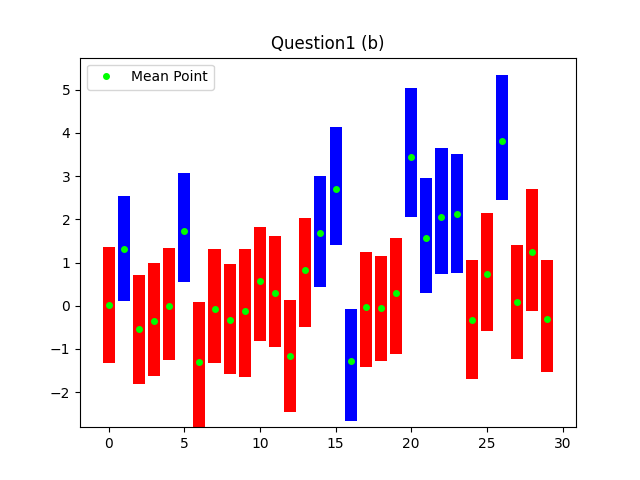
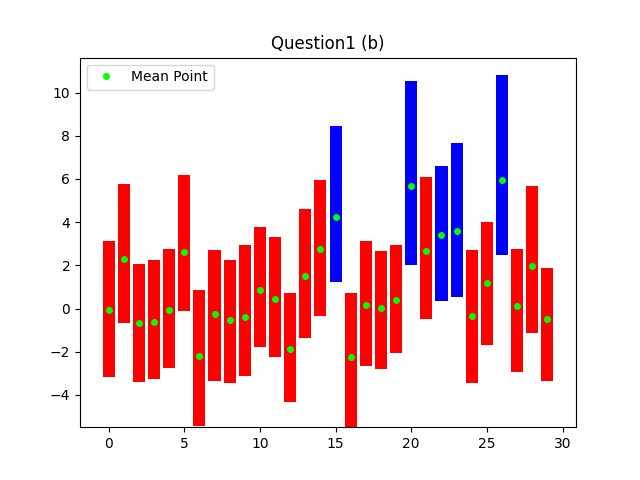
Question 1 finished

diff --git a/Final_Exam/Q1.py b/Final_Exam/Q1.py
@@ -114,7 +114,6 @@ print(
 np.random.seed(20)
 Bootstrap_size = 500
 
-
 logisticRegression_1b_full_model = LogisticRegression(
     C=1000, solver='liblinear', penalty='l1')
 logisticRegression_1b_full_model.fit(X, y.ravel())
@@ -130,21 +129,17 @@ equation_p_i = Numerator_part_p_i / denominator_part_p_i
 
 # This list is to store the coef data
 coefficient_list_1b = list()
-# This list is to store the data y
-new_y_data = list()
 
-for index in range(Bootstrap_size):
-    Bernoulli_result = np.random.binomial(n=1, p=equation_p_i).squeeze(1)
-    new_y_data.append(np.array([Bernoulli_result]))
-
-for index in range(Bootstrap_size):
+# Here is the result of bootstraping
+for index1 in range(Bootstrap_size):
     # The training data X didn't change
     random_list = np.random.randint(0, 250, 250)
+    Bernoulli_result = np.random.binomial(n=1, p=equation_p_i)
     X_4_1b = np.zeros_like(X)
-    y_4_1b = np.zeros_like(np.array(new_y_data))
+    y_4_1b = np.zeros_like(Bernoulli_result)
     for index in range(250):
         boostrap_temp_X = X[random_list[index]]
-        boostrap_temp_Y = new_y_data[random_list[index]]
+        boostrap_temp_Y = Bernoulli_result[random_list[index]]
         X_4_1b[index] = boostrap_temp_X
         y_4_1b[index] = boostrap_temp_Y
 
@@ -326,7 +321,7 @@ plt.show()
 
 
 def calculator_1d(lower_boundry, upper_boundry):
-    # These are the parameter provided by the instruction
+    # These are the parameter and code provided by the instruction
     np.random.seed(125)
     p = 30
     k = 8
@@ -349,11 +344,15 @@ def calculator_1d(lower_boundry, upper_boundry):
     # print(betas[index_eqls_1] == 0)
     # print(np.where(betas[index_eqls_1] == 0)[0])
     # Finding the positive location
-    False_Positive = np.where(betas[index_eqls_1] == 0)[0].shape
+    False_Positive_index = np.where(betas[index_eqls_1] == 0)
+    False_Positive_value = False_Positive_index[0]
+    False_Positive = False_Positive_value.shape
     # Finding the location which CI_array value is 0 ----> out of CI range
     index_eqls_0 = np.where(CI_array == 0)
     # Finding the negative location
-    False_Negative = np.where(betas[index_eqls_0] != 0)[0].shape
+    False_Negative_index = np.where(betas[index_eqls_0] != 0)
+    False_Negative_value = False_Negative_index[0]
+    False_Negative = False_Negative_value.shape
     return False_Positive, False_Negative
 
 
@@ -362,5 +361,5 @@ FPb, FNb = calculator_1d(lower_1b, upper_1b)
 FPc, FNc = calculator_1d(lower_1c, upper_1c)
 
 print(f"FP of Question a {FPa[0]}, FN of Question a {FNa[0]}")
-print(f"FP of Question a {FPb[0]}, FN of Question a {FNb[0]}")
-print(f"FP of Question a {FPc[0]}, FN of Question a {FNc[0]}")
+print(f"FP of Question b {FPb[0]}, FN of Question b {FNb[0]}")
+print(f"FP of Question c {FPc[0]}, FN of Question c {FNc[0]}")
